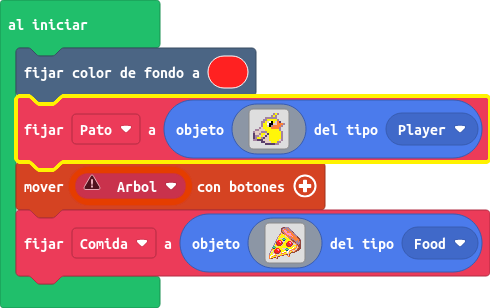
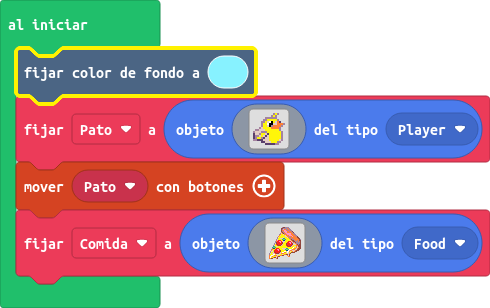
Actualizar main.blocks, main.ts

Changed region(s): [[0.0306, 0.1461, 1.0, 0.7013]]

diff --git a/main.ts b/main.ts
@@ -1,4 +1,4 @@
-scene.setBackgroundColor(2)
+scene.setBackgroundColor(9)
 let Pato = sprites.create(img`
     . . . . . . . . . . b 5 b . . . 
     . . . . . . . . . b 5 b . . . . 
